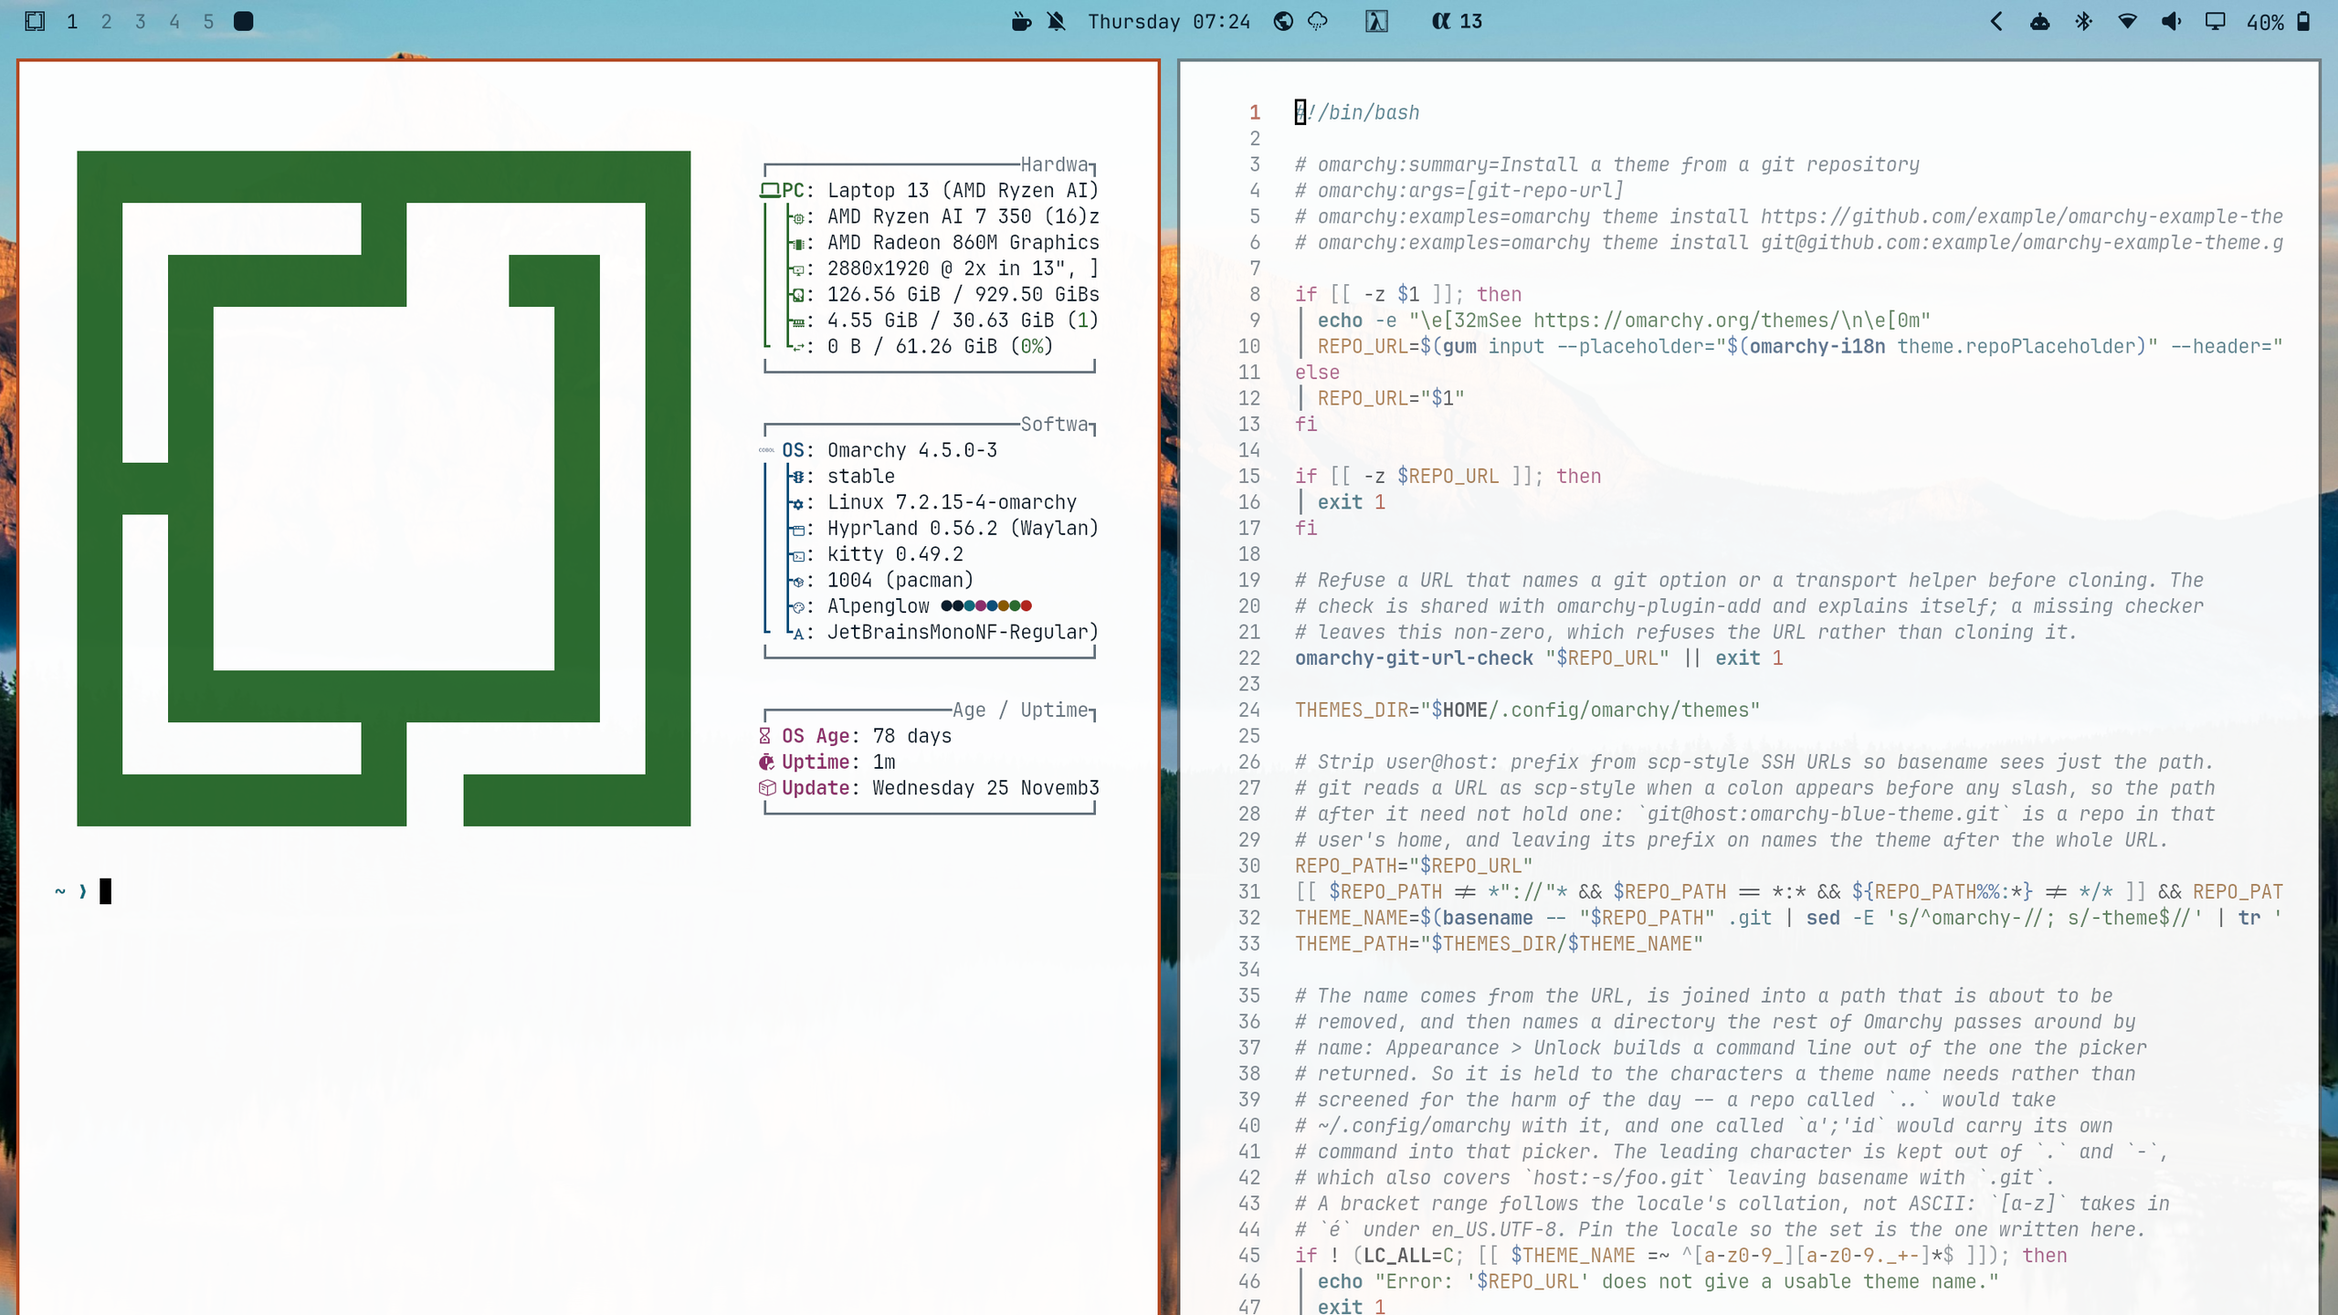
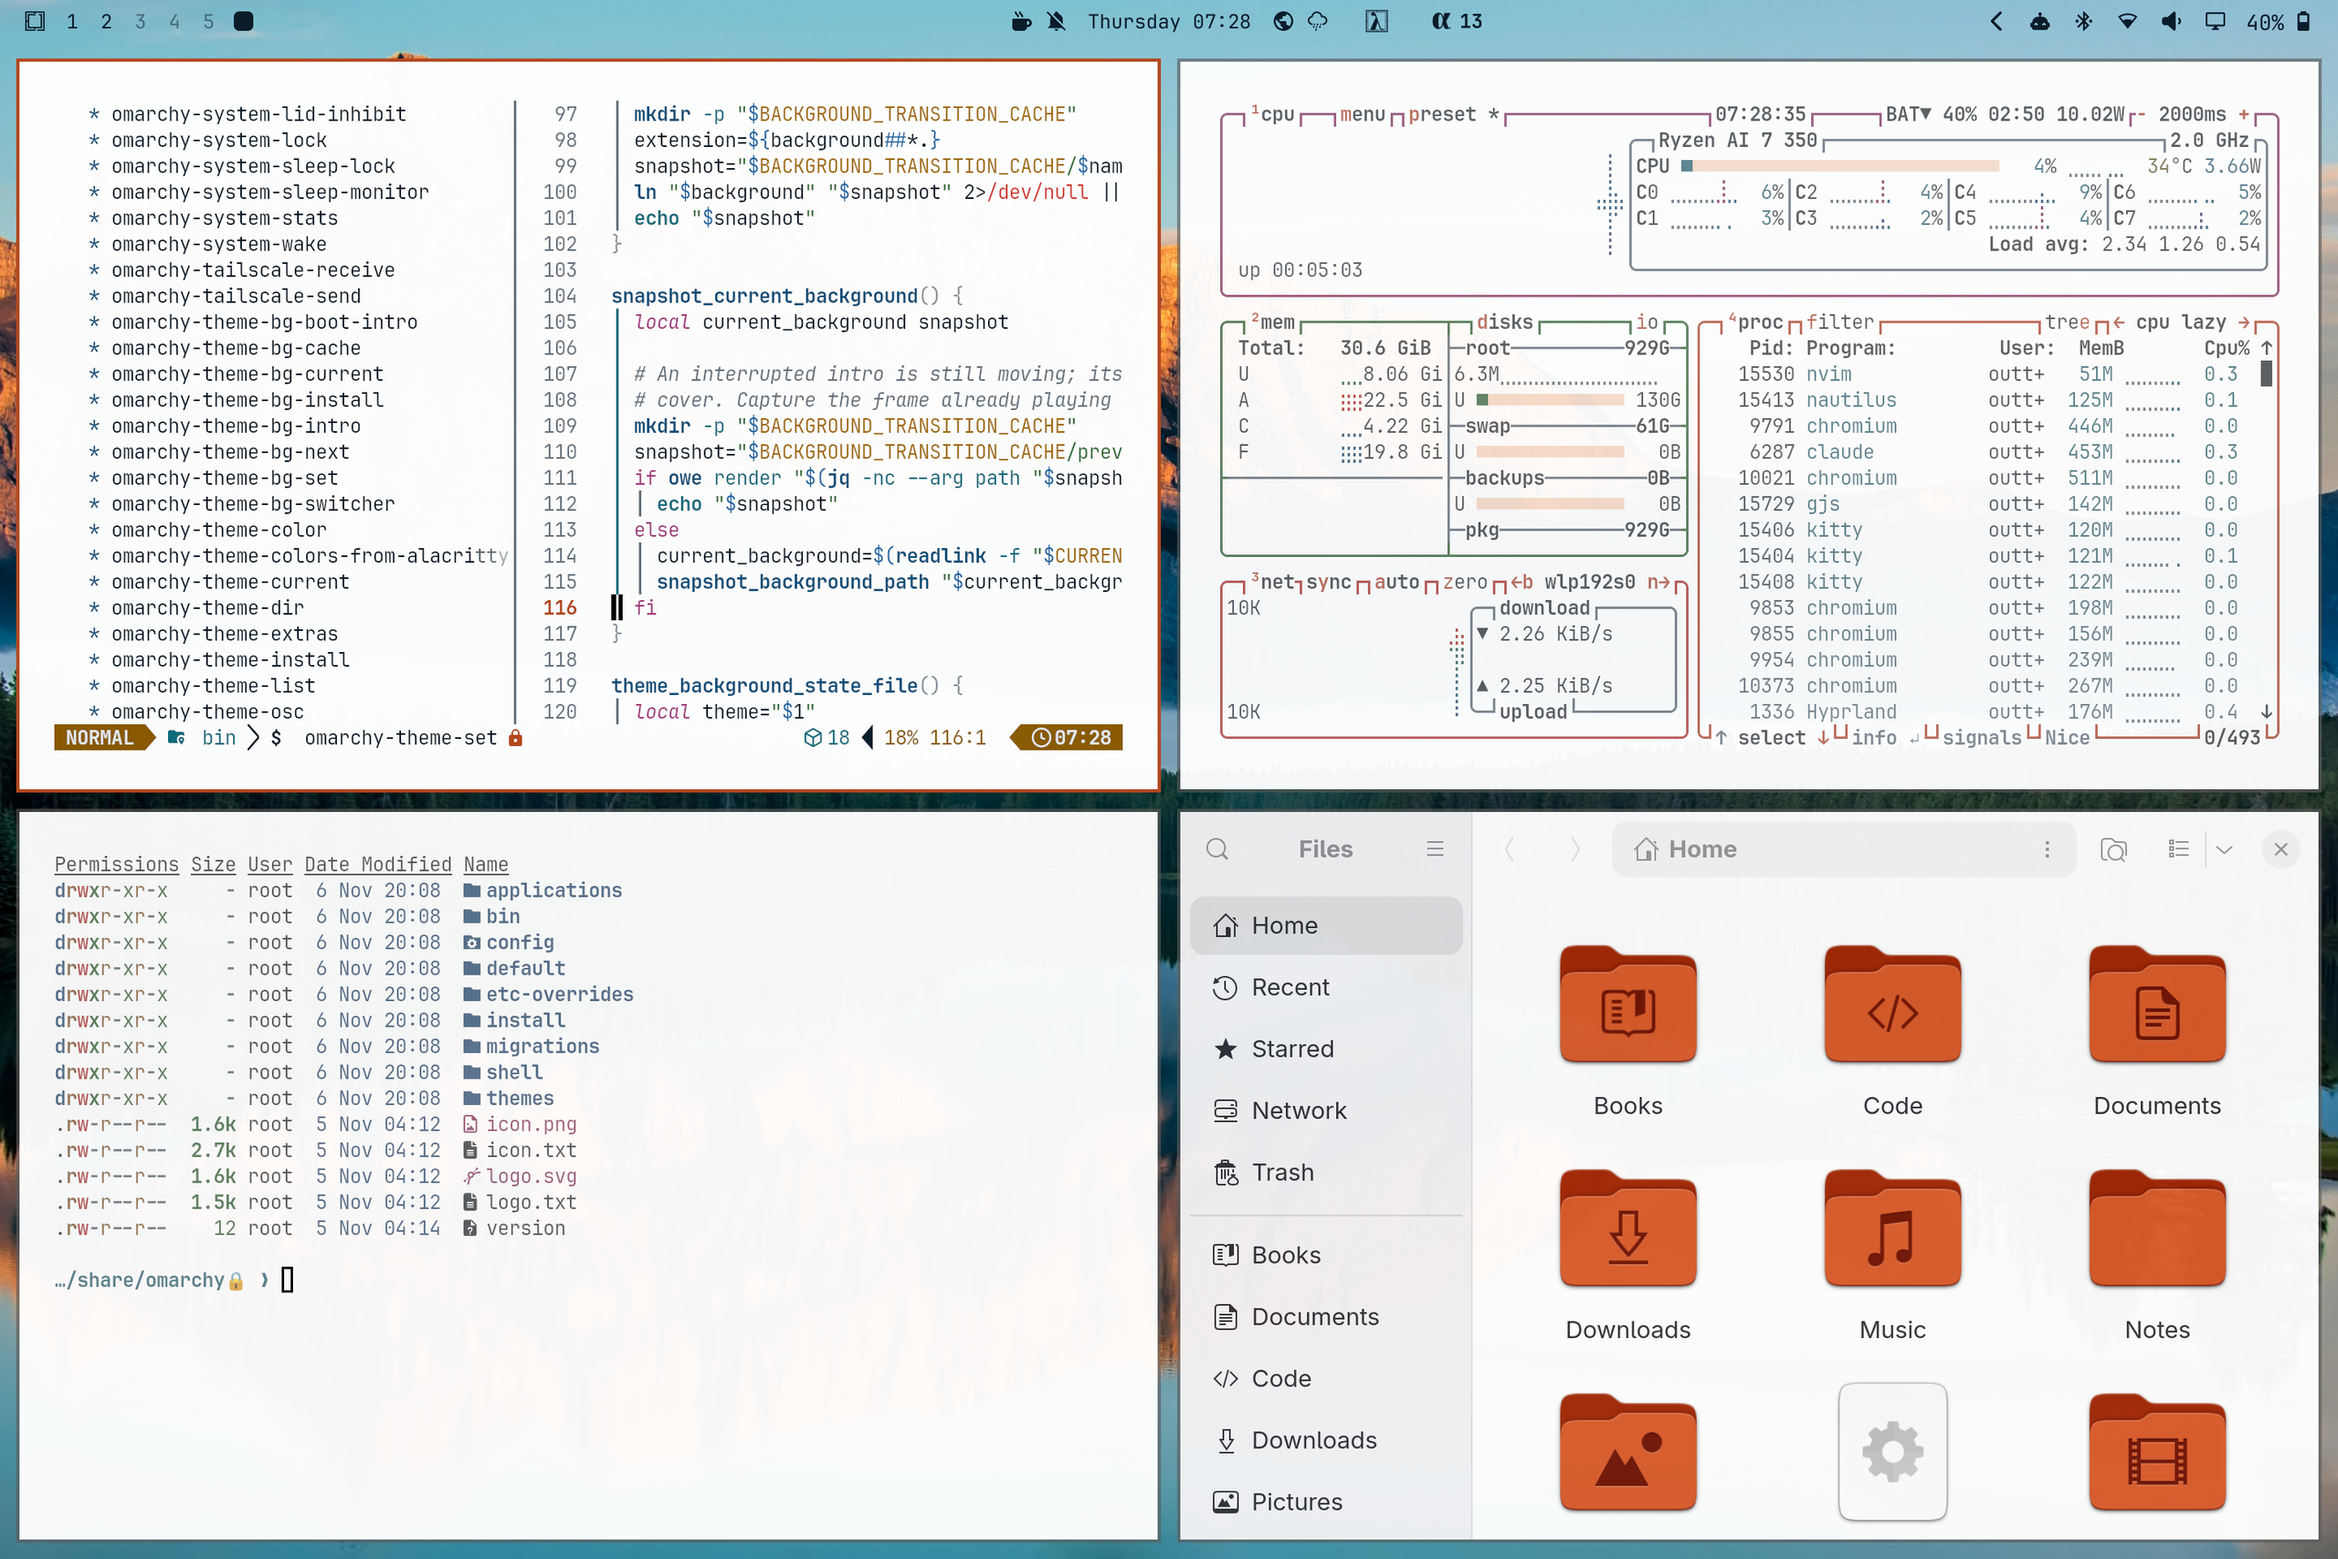
Preview: 2x2 layout like the stock themes, add menu screenshot

Changed region(s): [[0.0, 0.0, 1.0, 1.0], [0.9375, 0.3125, 1.0, 0.375]]

diff --git a/README.md b/README.md
@@ -7,7 +7,7 @@ the sunlit rock face as the accent and the lake blues and spruce greens for the 
 Every text and terminal color has at least **4.5:1** contrast against the background (WCAG AA);
 the main text sits at **17.3:1**.
 
-![Alpenglow preview](preview.png)
+![Alpenglow preview: Neovim, btop, eza and Files](preview.png)
 
 ## Install
 
@@ -21,7 +21,11 @@ The theme then shows up as **Alpenglow** in the theme switcher.
 
 ## Screenshots
 
-![Terminal and editor](screenshots/terminal.png)
+The Omarchy menu:
+
+![Omarchy menu](screenshots/menu.png)
+
+The bare desktop with the Lake Minnewanka background:
 
 ![Desktop](screenshots/desktop.png)
 
